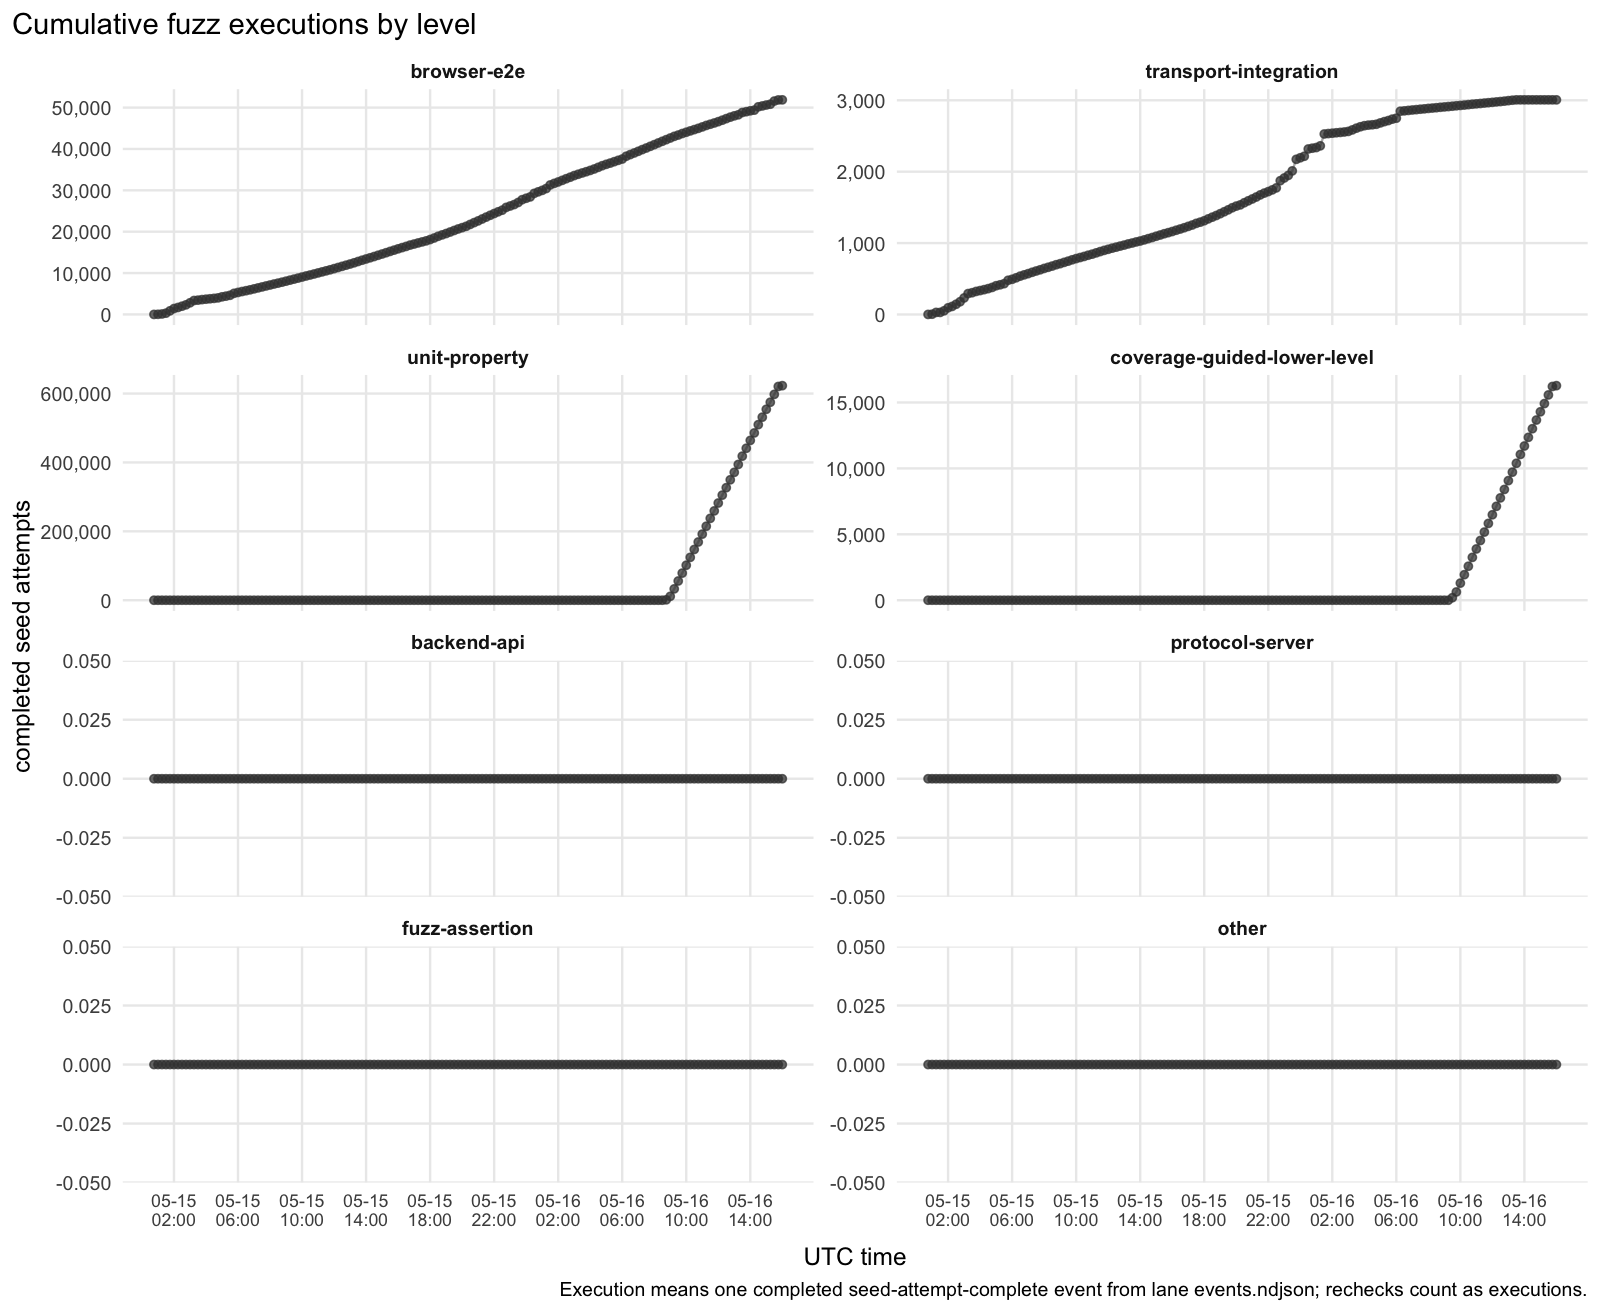
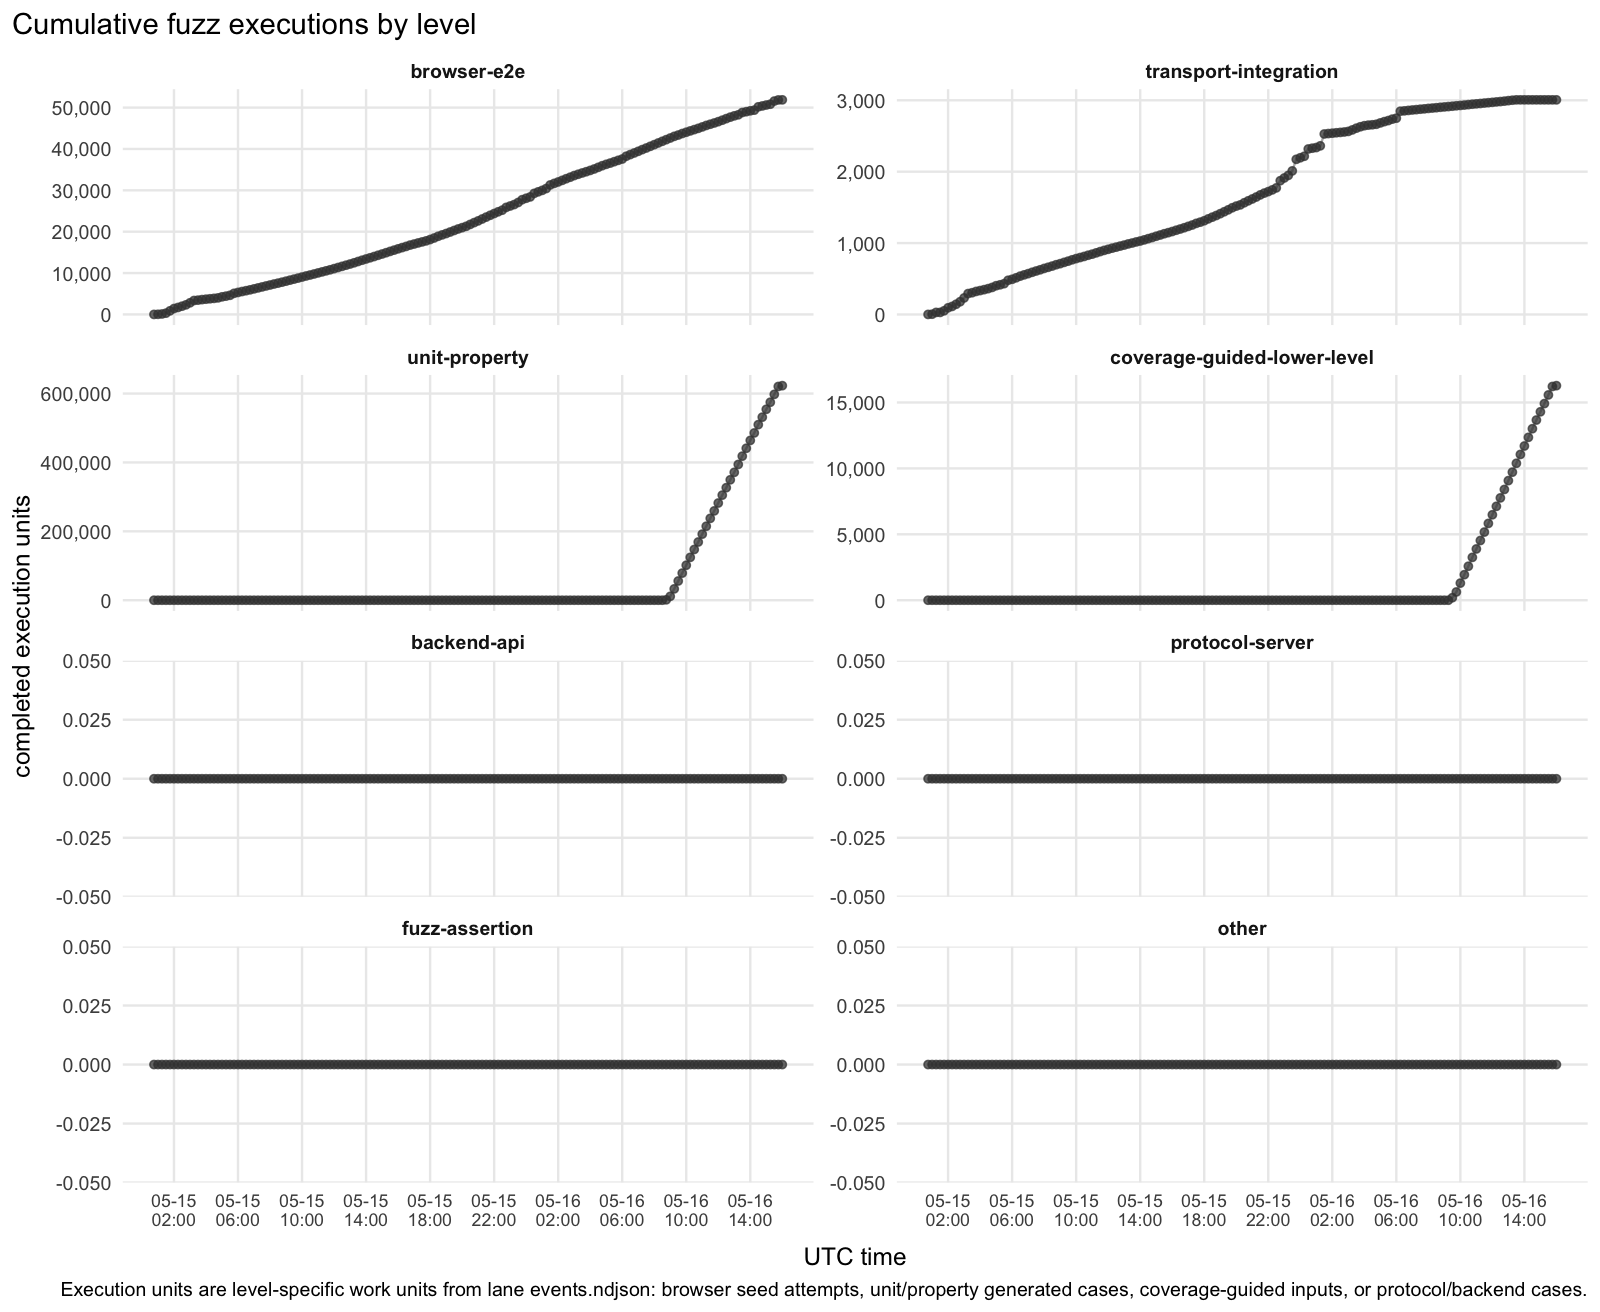
Use execution units for fuzz level trends

Changed region(s): [[0.0312, 0.9688, 0.9688, 1.0], [0.0, 0.375, 0.0312, 0.5938]]

diff --git a/docs/explanations/architecture/rtc-jetstream2-fuzz-trend-analysis-20260515.md b/docs/explanations/architecture/rtc-jetstream2-fuzz-trend-analysis-20260515.md
@@ -1,6 +1,6 @@
 # RTC Jetstream2 fuzz trend analysis
 
-Snapshot generated: `2026-05-16T16:00:54Z`
+Snapshot generated: `2026-05-16T16:03:55Z`
 
 This report summarizes the Jetstream2 coverage-guided fuzzing and PR-review
 loop logs using R, ggplot2, tidyverse data manipulation packages, and
@@ -24,26 +24,27 @@ The plotting script and summarized CSV inputs are committed under
 ## High-level readout
 
 The coverage-guided loop is still expanding coverage, not merely cycling. Across
-`1576` monitor passes from `2026-05-15T01:21:42Z` through
-`2026-05-16T15:54:45Z`, coverage files grew from `272` to `33497`, a delta of
-`33225`. The monitor's visible likely-real count stayed at `0`.
+`1578` monitor passes from `2026-05-15T01:21:42Z` through
+`2026-05-16T15:59:52Z`, coverage files grew from `272` to `33569`, a delta of
+`33297`. The monitor's visible likely-real count stayed at `0`.
 
 Coverage-goal pressure is down but not finished. The latest copied
 coverage-guidance state has `120` total goals and `5` unmet goals. The remaining
 goals are depth targets for real-user editing, gauntlet blocks, and CDP coverage
 records.
 
-The latest plotted current-output-dir sample regressed on duplicate status:
-`duplicateShareCurrent` is `1`, summary startup failures are `0`, warnings are
-`1`, free memory is `424.1G`, resource headroom is true, and quality issues are
-`1`. The copied novelty state lists one enabled coverage-guided group,
-`novelty-ws-lifecycle`. This report treats current-output-dir duplicate/noise
-and startup-failure metrics as live status; historical aggregate duplicate/noise
-is only context.
+The latest plotted current-output-dir sample is clean on the current duplicate
+and startup counters: `duplicateShareCurrent` is `0`, summary startup failures
+are `0`, warnings are `1`, free memory is `425.3G`, resource headroom is true,
+and quality issues are `1`. The copied novelty state lists two enabled
+coverage-guided groups, `novelty-ws-lifecycle` and
+`novelty-http-persistence-probe`. This report treats current-output-dir
+duplicate/noise and startup-failure metrics as live status; historical aggregate
+duplicate/noise is only context.
 
-Persona-loop evidence rejects a graph-only "resolved" interpretation, and the
-refreshed graph now agrees. The latest duplicate/noise synthesis,
-`20260516T153431Z`, says strict zero-user pre-action bootstrap and awareness
+Persona-loop evidence rejects a graph-only "resolved" interpretation even when
+the latest current-output counters are clean. The latest duplicate/noise
+synthesis, `20260516T153431Z`, says strict zero-user pre-action bootstrap and awareness
 stalls are recognized by parts of the pipeline but are not consistently
 suppressed before triage and analysis. The latest duplicate/noise
 feedback-action, `20260516T153431Z`, changed novelty-monitor canary gating,
@@ -52,9 +53,10 @@ showed `novelty-ws-lifecycle` running with product evidence and no strict
 startup records. It also says current-run triage still has two strict startup
 signatures from the HTTP probe, duplicate share `1.0`, and that triage-watcher
 and analysis-tier suppression remain outside that fix. The current copied state
-has `novelty-ws-lifecycle` enabled and `duplicateShareCurrent=1`, so startup
-and duplicate containment remains unresolved even though summary startup
-failures are `0`.
+has `novelty-ws-lifecycle` and `novelty-http-persistence-probe` enabled with
+`duplicateShareCurrent=0`, so the live sample has improved, but startup and
+duplicate containment is not treated as complete until triage and analysis-tier
+suppression are aligned with the live gate.
 
 The latest usable PR-split synthesis, `20260516T154448Z`, says the explicit
 28-head split is only a known-fix prefix, not a complete filing split. The newer
@@ -88,10 +90,10 @@ coverage-file deltas are reset/restart artifacts and are marked separately.
 
 ![Fuzz yield and resource health over time](rtc-jetstream2-fuzz-trends-20260515/plots/monitor-health-yield.png)
 
-The live startup counter is clean but the duplicate signal is not in the latest
-current-output-dir sample: `duplicateShareCurrent=1` with `0` summary startup
-failures. The sample has `1` quality issue and `1` warning, while resource
-headroom is true. The plot uses
+The latest current-output-dir sample is clean on the live startup and duplicate
+counters: `duplicateShareCurrent=0` with `0` summary startup failures. The
+sample has `1` quality issue and `1` warning, while resource headroom is true.
+The plot uses
 `duplicateShareCurrent` and current summary startup failures for the live health
 view; it does not use historical aggregate duplicate/noise as the plotted live
 signal.
@@ -105,9 +107,9 @@ after current-run evidence, and reported `novelty-ws-lifecycle` running with
 product evidence and no strict startup records. It did not change
 triage-watcher or analysis-tier suppression, and it still reported two strict
 startup signatures in current-run triage. The refreshed graph shows
-`duplicateShareCurrent=1`, so queued or analysis-state startup-noise leakage is
-not just residual risk; it is still visible in the current live duplicate/noise
-status.
+`duplicateShareCurrent=0`, so the current output directory is clean, but queued
+or analysis-state startup-noise leakage remains the issue the loop has not yet
+fully closed.
 
 ![CPU utilization over time](rtc-jetstream2-fuzz-trends-20260515/plots/cpu-utilization-over-time.png)
 
@@ -134,13 +136,14 @@ The historical enabled set still covers the requested missing areas:
 same-user/reload lifecycle, revision/autosave/recovery, real UI rich text,
 parser/serialization transforms, async/server-backed blocks,
 permissions/auth/locks, and long/large sessions. The current novelty state has
-`1` enabled coverage-guided group after the latest output-dir reset:
-`novelty-ws-lifecycle`. The duplicate/noise feedback-action is stricter than a
+`2` enabled coverage-guided groups after the latest output-dir reset:
+`novelty-ws-lifecycle` and `novelty-http-persistence-probe`. The
+duplicate/noise feedback-action is stricter than a
 graph-only read: novelty scheduling was changed to gate on current startup
 evidence, but browser admission remains under probation until current-output
 duplicate/startup evidence stays clean over time and triage/analysis suppression
 is applied. The refreshed state shows the lifecycle producer enabled again while
-`duplicateShareCurrent=1`.
+`duplicateShareCurrent=0`.
 
 ## Fuzzing Level Mix
 
@@ -150,12 +153,12 @@ The level-mix plot reads supervisor group history, not just the novelty monitor
 log. The latest copied snapshots cover `coverage-guided`,
 `coverage-guided-lower-level`, `focused-shards`, `gap-booster`,
 `strict-expansion`, and `unit-property`. Across the latest copied campaign
-snapshots, the mix shows `26` browser/e2e lanes across `26` groups, plus `1`
+snapshots, the mix shows `27` browser/e2e lanes across `27` groups, plus `1`
 `unit-property` lane and `1` `coverage-guided-lower-level` lane. The browser/e2e
-lanes are `1` coverage-guided, `9` focused-shards, `6` gap-booster, and `10`
+lanes are `2` coverage-guided, `9` focused-shards, `6` gap-booster, and `10`
 strict-expansion. The latest coverage-guided supervisor snapshot and copied
-novelty state both show one enabled browser/e2e group,
-`novelty-ws-lifecycle`.
+novelty state show two enabled browser/e2e groups, `novelty-ws-lifecycle` and
+`novelty-http-persistence-probe`.
 
 Live fuzzing is still dominated by browser/e2e lanes, but lower-level work is
 active in `unit-property` and `coverage-guided-lower-level`. No active
@@ -169,18 +172,23 @@ snapshot.
 
 ![Fuzz execution rate by level](rtc-jetstream2-fuzz-trends-20260515/plots/fuzz-level-execution-rate.png)
 
-The current execution metric is completed `seed-attempt-complete` events from
-lane `events.ndjson` files. The plots count completed seed attempts, with
-rechecks counted as executions, and bucket rates in 15-minute windows scaled to
-attempts per hour. This is more precise than supervisor launches or lane counts,
-but it only covers fuzzers that emit these lane events.
+The current execution metric is completed level-specific execution units derived
+from lane `events.ndjson` files. Browser/e2e lanes count completed seed
+attempts, unit/property lanes count generated unit/property cases,
+coverage-guided lower-level lanes count covered inputs when emitted, and
+backend/protocol lanes count emitted cases. Rechecks count as executions. This
+is more precise than supervisor launches or lane counts, but it only covers
+fuzzers that emit these lane events.
 
-The latest collected execution data has `56,324` completed attempts: `51,788`
-browser/e2e, `3,006` transport/integration, `525` unit-property, and `1,005`
-coverage-guided-lower-level. The latest 15-minute bucket reports about `848`
-browser/e2e attempts/hour, `56` unit-property attempts/hour, `120`
-coverage-guided-lower-level attempts/hour, and `0` transport/integration
-attempts/hour. `backend-api`, `protocol-server`, and standalone
+The latest collected execution data has `694,082` completed execution units:
+`51,872` browser/e2e, `3,006` transport/integration, `622,928` unit-property,
+and `16,276` coverage-guided-lower-level. The latest 15-minute bucket reports
+about `88` browser/e2e execution units/hour, `9,632` unit-property execution
+units/hour, `256` coverage-guided-lower-level execution units/hour, and `0`
+transport/integration execution units/hour. With the current unit-property
+configuration, one Jest wrapper event represents `1,204` unit/property execution
+units: `2` seeds times `100` rich-text cases plus `500` placement cases, plus
+`4` fixed unit tests. `backend-api`, `protocol-server`, and standalone
 `fuzz-assertion` levels remain at `0` executions in this counter.
 
 ## Profile Completion
@@ -297,8 +305,8 @@ snapshots, not filing authority for split shape.
 The coverage graph is still positive on breadth and depth intake: files and
 coverage observations continue to grow, likely-real visible failures remain
 `0`, and unmet goals are down to `5`. The latest live current-output sample is
-clean on startup but not on duplicates: `0` summary startup failures and
-`duplicateShareCurrent=1`. The latest monitor row has `1` quality issue and
+clean on startup and current duplicates: `0` summary startup failures and
+`duplicateShareCurrent=0`. The latest monitor row has `1` quality issue and
 `1` warning, with resource headroom true.
 
 The duplicate/noise persona loop rejects a graph-only "resolved" read. The
@@ -322,8 +330,9 @@ The remaining fuzzing weakness is completion depth and level diversity. Live
 work is still mostly browser/e2e in the latest mix snapshots, but unit-property
 and coverage-guided-lower-level lanes are active. Transport-integration has
 historical completed executions but no latest-bucket rate; the latest execution
-bucket has `848` browser/e2e attempts/hour, `56` unit-property attempts/hour,
-`120` coverage-guided-lower-level attempts/hour, `0` transport/integration
-attempts/hour, and `0` backend-api/protocol-server/fuzz-assertion executions.
+bucket has `88` browser/e2e execution units/hour, `9,632` unit-property
+execution units/hour, `256` coverage-guided-lower-level execution units/hour,
+`0` transport/integration execution units/hour, and `0`
+backend-api/protocol-server/fuzz-assertion executions.
 The next narrow operational checks are triage/analysis suppression for strict
 startup noise and seed `1020002` peer-client store-transition repair evidence.
